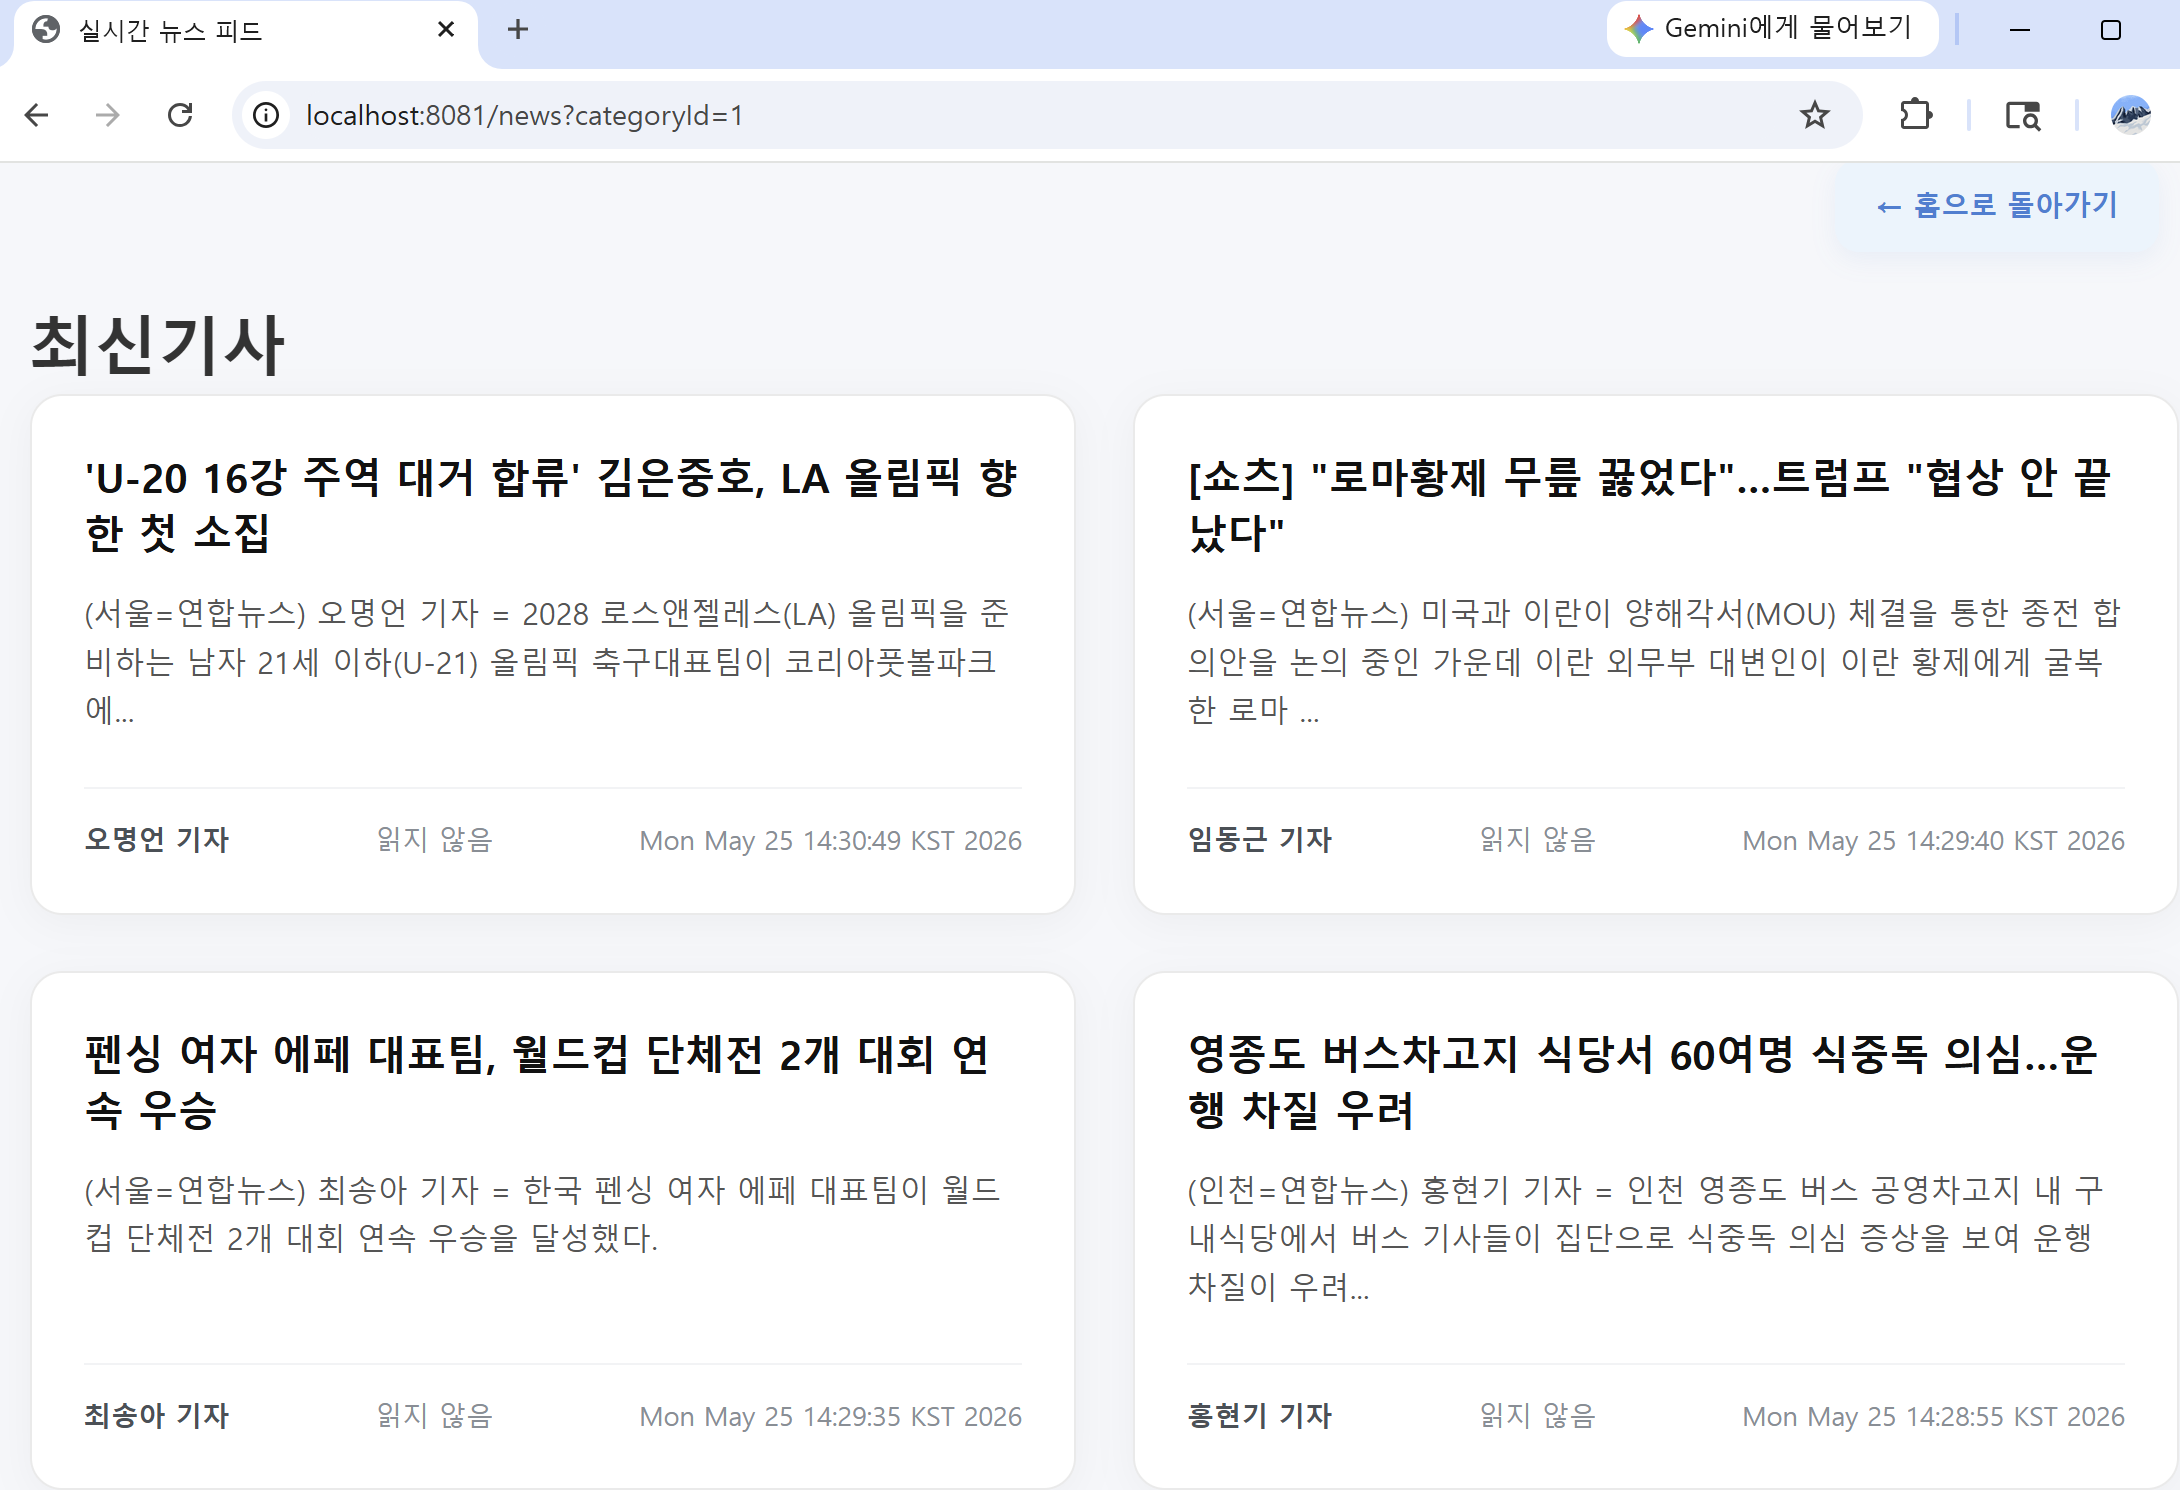
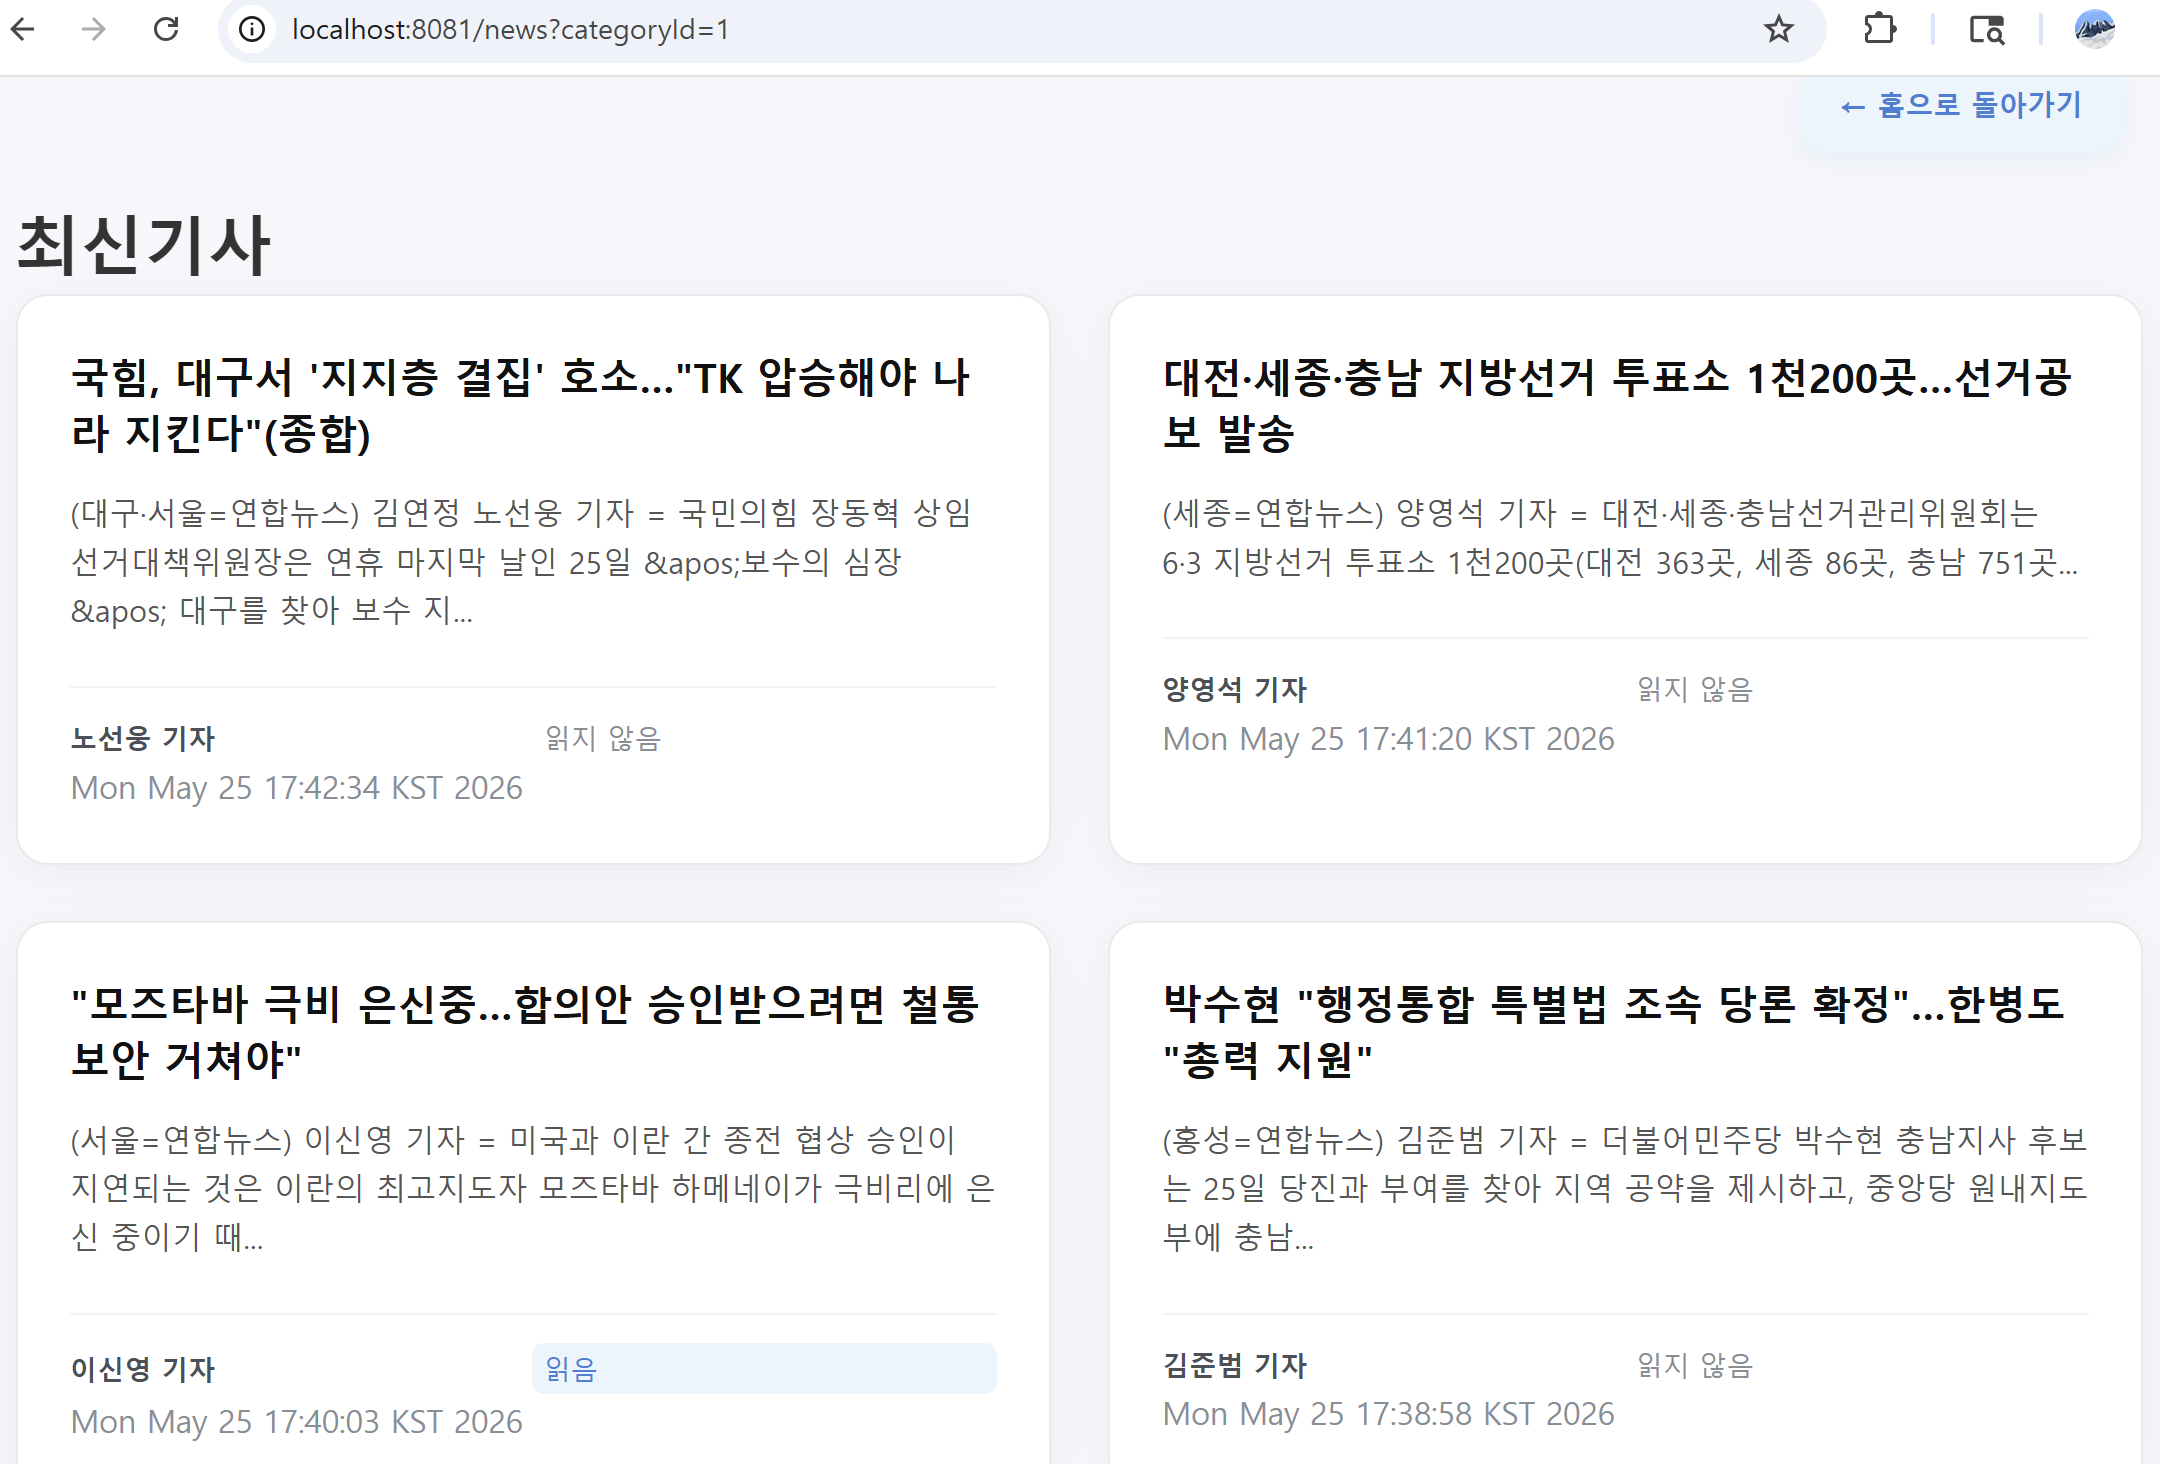
News-01: 뉴스 목록 페이지 css 수정

diff --git a/src/main/resources/static/css/news.css b/src/main/resources/static/css/news.css
@@ -84,10 +84,10 @@ body {
 }
 
 .card-title a:hover {
-    color: #1c7ed6; /* 호버 시 세련된 블루 컬러 강조 */
+    color: #1c7ed6;
 }
 
-/* 뉴스 본문 요약 (3줄 제한 및 말줄임표 처리) */
+/* 본문 */
 .card-description {
     font-size: 0.95rem;
     color: #555555;
@@ -99,25 +99,47 @@ body {
     text-overflow: ellipsis;
 }
 
-/* 5. 카드 하단 바 (기자 정보 & 발행일) */
+/* 5. 카드 하단 */
 .card-footer {
-    margin-top: auto; /* 본문이 짧아도 푸터는 무조건 카드 맨 아래 정렬 */
+    margin-top: auto;
     padding-top: 14px;
     border-top: 1px solid #f1f3f5;
     display: flex;
     justify-content: space-between;
     align-items: center;
+    gap: 10px;
     font-size: 0.85rem;
     color: #868e96;
 }
 
+.news-creator,
+.news-read,
+.news-date {
+    flex: 1;
+    min-width: 0;
+    overflow: hidden;
+    text-overflow: ellipsis;
+    white-space: nowrap;
+}
+
+/* creator 강조 */
 .news-creator {
     font-weight: 600;
     color: #495057;
 }
 
+/* date */
 .news-date {
+    color: #868e96;
     letter-spacing: -0.2px;
+}
+
+/* 읽음 상태 */
+.news-read.is-read {
+    color: #1c7ed6;
+    background-color: #e8f4fd;
+    padding: 2px 6px;
+    border-radius: 6px;
 }
 
 /* 상단 헤더 */
@@ -128,21 +150,19 @@ body {
 
     display: flex;
     align-items: center;
-    /* justify-content를 space-between으로 유지하여 좌우 끝 정렬 보장 */
     justify-content: space-between;
 
     padding: 0 10px;
 }
 
-/* 홈 버튼 (흐린 하늘색 톤으로 커스텀) */
+/* 홈 버튼 */
 .home-btn {
     text-decoration: none;
 
-    background: #e8f4fd; /* 연하고 산뜻한 파스텔 하늘색 배경 */
-    color: #1c7ed6;      /* 대비를 주는 진한 하늘색 글자 */
+    background: #e8f4fd;
+    color: #1c7ed6;
 
     padding: 12px 20px;
-
     border-radius: 12px;
 
     font-size: 14px;
@@ -152,19 +172,14 @@ body {
 
     box-shadow: 0 4px 12px rgba(28, 126, 214, 0.08);
 
-    /* flex 컨테이너 내에서 왼쪽 여백을 auto로 설정하면,
-       남은 공간을 모두 왼쪽에 배치하여 이 버튼을 완전히 오른쪽 끝으로 밀어냅니다.
-    */
     margin-left: auto;
 }
 
-/* hover */
 .home-btn:hover {
-    background: #d0ebff; /* 마우스를 올렸을 때 살짝 더 선명한 파스텔톤 하늘색 */
-    color: #1864ab;      /* 글자 색상도 한 단계 어둡게 조절하여 시인성 확보 */
+    background: #d0ebff;
+    color: #1864ab;
 
     transform: translateY(-2px);
-
     box-shadow: 0 6px 16px rgba(28, 126, 214, 0.15);
 }
 
